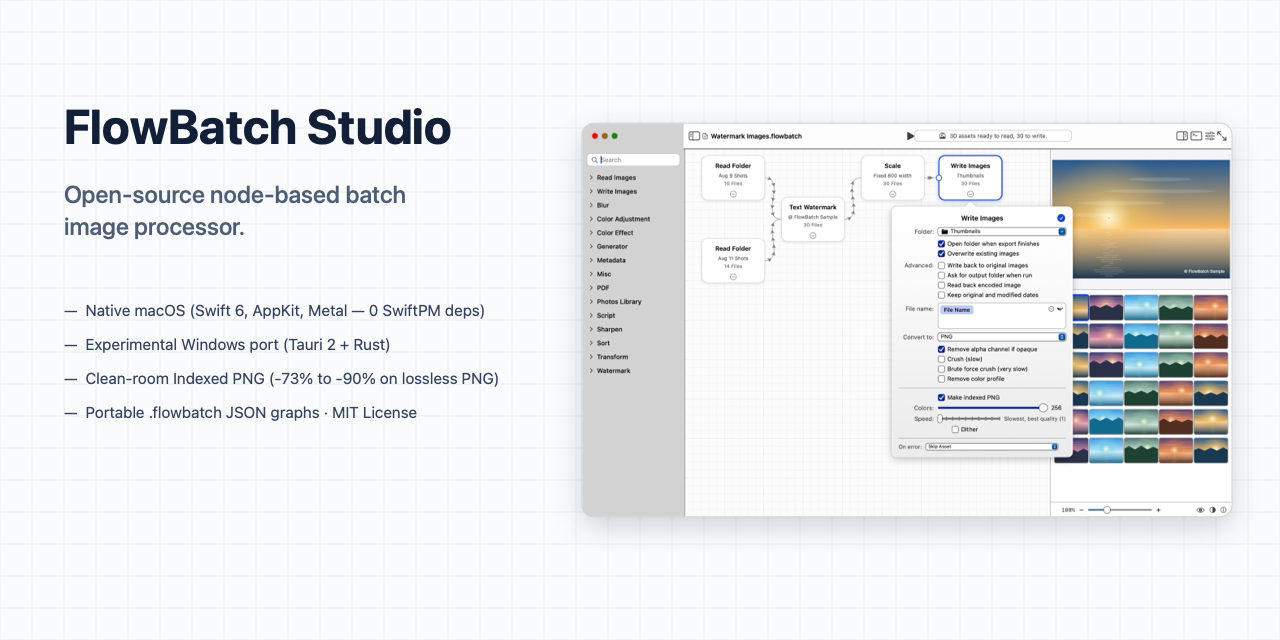
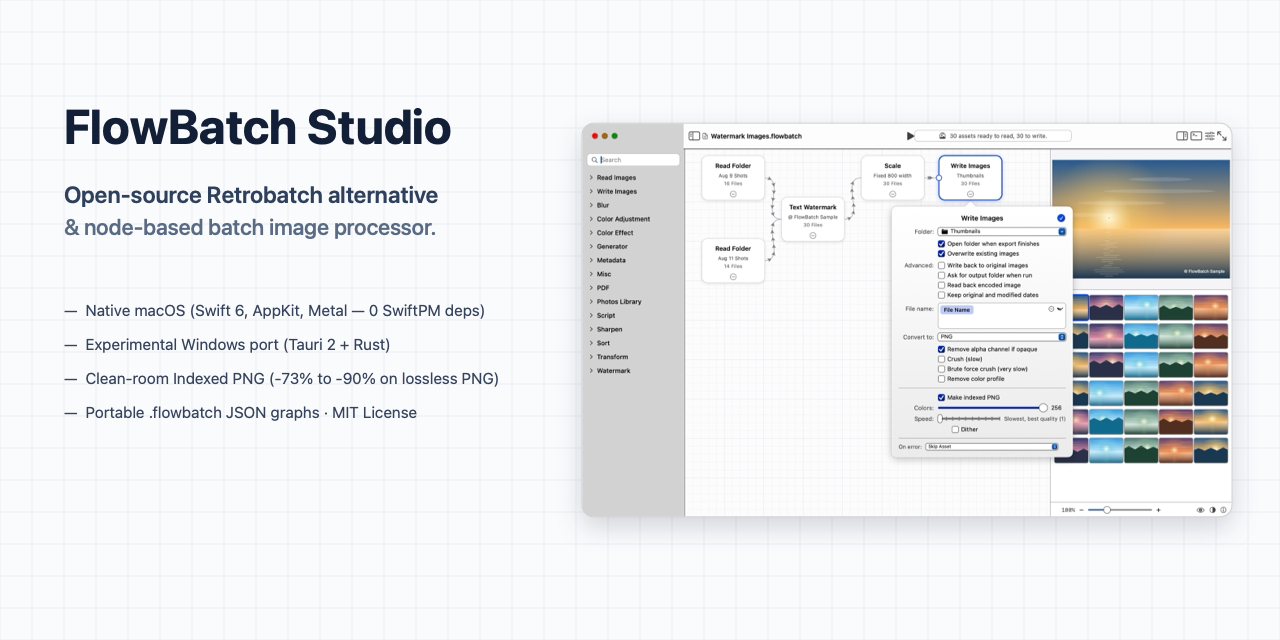
docs: position FlowBatch Studio clearly as an open-source Retrobatch alternative in README and social preview

Changed region(s): [[0.0312, 0.2812, 0.3438, 0.375]]

diff --git a/README.md b/README.md
@@ -1,6 +1,6 @@
-# FlowBatch Studio
+# FlowBatch Studio — Open-Source Retrobatch Alternative
 
-An open-source, offline, node-based batch image processor written in native **Swift 6, AppKit, and Metal/Core Image** for macOS, inspired by [Retrobatch](https://flyingmeat.com/retrobatch/). Includes an early, experimental **Windows 11** port (`windows/`) built with Tauri 2 and Rust that shares the same `.flowbatch` JSON workflow format.
+An independent, free, MIT-licensed **Retrobatch** alternative and node-based batch image processor — built natively in **Swift 6, AppKit, and Metal/Core Image** for macOS, with an experimental **Windows 11** port (`windows/`) in Tauri 2 and Rust sharing the same `.flowbatch` JSON workflow format. *(Inspired by [Retrobatch](https://flyingmeat.com/retrobatch/); not affiliated with Flying Meat Inc.)*
 
 [Latest Release (macOS)](https://github.com/zm57cdj9yb-beep/flowbatch-studio/releases/latest) · [Changelog](CHANGELOG.md) · [Example Workflows](examples/) · [Benchmarks](benchmarks/RESULTS.md) · [Discussions](https://github.com/zm57cdj9yb-beep/flowbatch-studio/discussions) · [MIT License](LICENSE)
 
